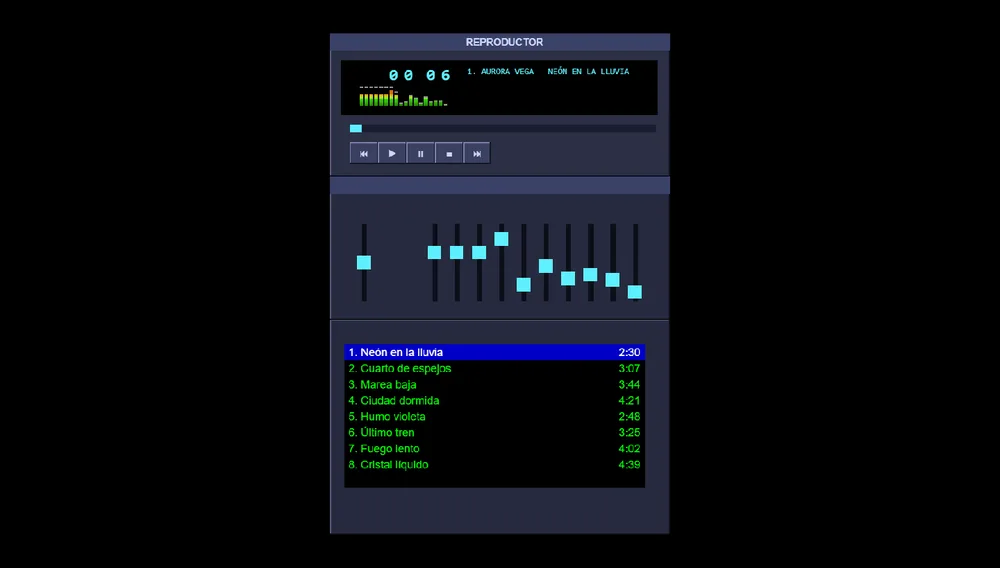
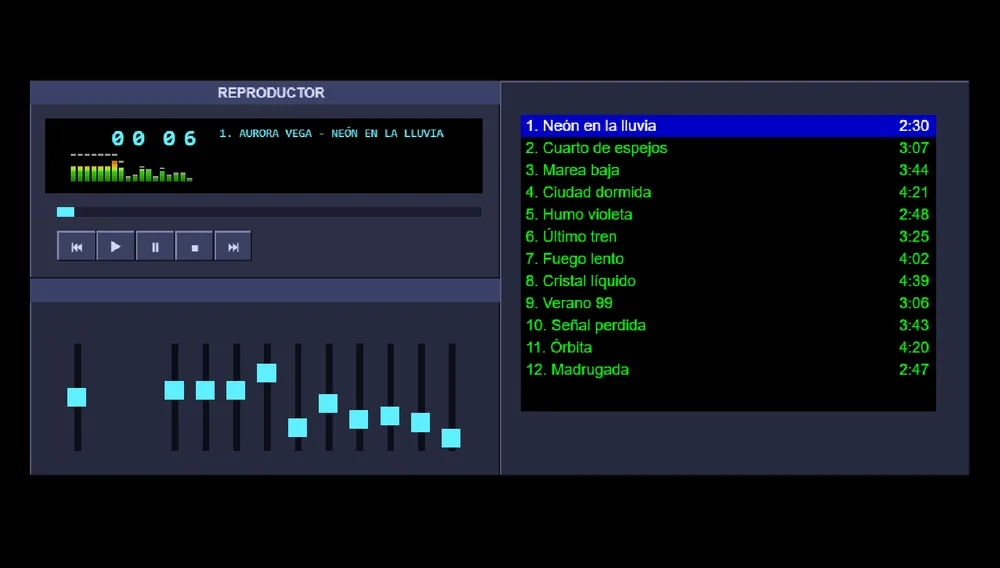
Winamp: principal y ecualizador a la izquierda, lista a la derecha, casi a todo el ancho

diff --git a/web/winamp.js b/web/winamp.js
@@ -1,11 +1,11 @@
 // Reproductor con skins clásicos de Winamp 2 (.wsz importados por la persona; quedan solo en su equipo).
-// Dibuja, en un solo lienzo pixelado, las tres ventanas apiladas como en Winamp: principal, ecualizador y lista,
+// Dibuja, en un solo lienzo pixelado, las tres ventanas de Winamp: principal y ecualizador apilados, y la lista al lado,
 // con las coordenadas originales de cada pieza del skin. Lo conecta al reproductor (R) y pone el color del skin
 // como acento de la plantilla. Si no hay skins importados, dibuja uno clásico propio hecho con formas simples.
 //   Winamp.montar(caja, { ambiente }) — la pieza "winamp" de las plantillas
 "use strict";
 const Winamp = (() => {
-  const AN = 275, MAIN = 116, EQ = 116, PL = 174, ALTO = MAIN + EQ + PL, S = 2;   // S: el lienzo va al doble para que el texto se lea nítido
+  const AN = 275, MAIN = 116, EQ = 116, PL = MAIN + EQ, ANCHO = AN * 2, ALTO = MAIN + EQ, S = 2;   // principal + ecualizador a la izquierda, lista a la derecha; S: el lienzo va al doble para que el texto se lea nítido
   const VIS_WINAMP = [[0,0,0],[24,33,41],[239,49,16],[206,41,16],[214,90,0],[214,102,0],[214,115,0],[198,123,8],[222,165,24],[214,181,33],[189,222,41],[148,222,33],[41,206,16],[50,190,16],[57,181,16],[49,156,8],[41,148,0],[24,132,8],[255,255,255],[214,214,222],[181,189,189],[160,170,175],[148,156,165],[150,150,150]];
   const FUENTE = { '"': [0, 26], "@": [0, 27], " ": [0, 30], "…": [1, 10], ".": [1, 11], ":": [1, 12], "(": [1, 13], ")": [1, 14], "-": [1, 15], "'": [1, 16], "!": [1, 17], "_": [1, 18], "+": [1, 19], "\\": [1, 20], "/": [1, 21], "[": [1, 22], "]": [1, 23], "^": [1, 24], "&": [1, 25], "%": [1, 26], ",": [1, 27], "=": [1, 28], "$": [1, 29], "#": [1, 30], "Å": [2, 0], "Ö": [2, 1], "Ä": [2, 2], "?": [2, 3], "*": [2, 4], "<": [1, 13], ">": [1, 14], "{": [1, 22], "}": [1, 23] };
   const letra = (c) => { const u = c.toUpperCase().normalize("NFD").replace(/[̀-ͯ]/g, ""); if (u >= "A" && u <= "Z") return [0, u.charCodeAt(0) - 65]; if (u >= "0" && u <= "9") return [1, +u]; return FUENTE[c] || FUENTE[u] || [0, 30]; };
@@ -15,14 +15,14 @@ const Winamp = (() => {
 
   function montar(caja, op) {
     const raiz = document.createElement("div"); raiz.className = "m-winamp";
-    raiz.style.cssText = `position:absolute;left:50%;top:50%;width:${AN}px;height:${ALTO}px;transform-origin:50% 50%`;
-    const c = document.createElement("canvas"); c.width = AN * S; c.height = ALTO * S;
-    c.style.cssText = `width:${AN}px;height:${ALTO}px;image-rendering:pixelated;display:block;cursor:default;filter:drop-shadow(0 12px 30px rgba(0,0,0,.6))`;
+    raiz.style.cssText = `position:absolute;left:50%;top:50%;width:${ANCHO}px;height:${ALTO}px;transform-origin:50% 50%`;
+    const c = document.createElement("canvas"); c.width = ANCHO * S; c.height = ALTO * S;
+    c.style.cssText = `width:${ANCHO}px;height:${ALTO}px;image-rendering:pixelated;display:block;cursor:default;filter:drop-shadow(0 12px 30px rgba(0,0,0,.6))`;
     // piezas invisibles que el reproductor (nucleo.js) actualiza por id: de aquí se leen título y estado
     const oculto = document.createElement("div"); oculto.style.display = "none";
     oculto.innerHTML = '<button id="bPlay">▶</button><div id="titulo"></div><div id="artista"></div><input id="volumen" type="range" min="0" max="100" value="80">';
     raiz.append(c, oculto); caja.appendChild(raiz);
-    const ajustar = () => { const s = Math.min(caja.clientWidth / AN, caja.clientHeight / ALTO) || .01; raiz.style.transform = `translate(-50%, -50%) scale(${s})`; };
+    const ajustar = () => { const s = Math.min(caja.clientWidth / ANCHO, caja.clientHeight / ALTO) || .01; raiz.style.transform = `translate(-50%, -50%) scale(${s})`; };
     new ResizeObserver(ajustar).observe(caja); requestAnimationFrame(ajustar);
     const g = c.getContext("2d"); g.scale(S, S); g.imageSmoothingEnabled = false;
     const vol = oculto.querySelector("#volumen"), bPlay = oculto.querySelector("#bPlay"), tit = oculto.querySelector("#titulo"), art = oculto.querySelector("#artista");
@@ -121,7 +121,7 @@ const Winamp = (() => {
     }
 
     function ventanaLista() {
-      g.save(); g.translate(0, MAIN + EQ);
+      g.save(); g.translate(AN, 0);
       const top = 20, abajo = PL - 38, ok = listo("pledit");
       g.fillStyle = pl.normalbg || "#000"; g.fillRect(12, top, AN - 32, abajo - top);
       if (ok) {
@@ -150,25 +150,25 @@ const Winamp = (() => {
       g.restore(); g.restore();
     }
 
-    R.cadaCuadro((t) => { const d = R.espectro(); g.clearRect(0, 0, AN, ALTO); ventanaPrincipal(t, d); ventanaEcualizador(d); ventanaLista(); });
+    R.cadaCuadro((t) => { const d = R.espectro(); g.clearRect(0, 0, ANCHO, ALTO); ventanaPrincipal(t, d); ventanaEcualizador(d); ventanaLista(); });
 
     // ---- ratón: botones, barras y lista ----
-    const punto = (e) => { const r = c.getBoundingClientRect(); return [(e.clientX - r.left) / r.width * AN, (e.clientY - r.top) / r.height * ALTO]; };
+    const punto = (e) => { const r = c.getBoundingClientRect(); return [(e.clientX - r.left) / r.width * ANCHO, (e.clientY - r.top) / r.height * ALTO]; };
     const boton = (x, y) => y >= 88 && y < 106 ? (x >= 16 && x < 39 ? "ant" : x < 62 ? "play" : x < 85 ? "pausa" : x < 108 ? "stop" : x < 130 ? "sig" : "") : "";
     const ponerVol = (x) => { vol.value = Math.round(Math.max(0, Math.min(1, (x - 114) / 54)) * 100); vol.dispatchEvent(new Event("input")); };
     c.addEventListener("pointerdown", (e) => {
       const [x, y] = punto(e); c.setPointerCapture(e.pointerId);
-      if (y < MAIN) {
+      if (x < AN && y < MAIN) {
         apretado = boton(x, y);
         if (y >= 72 && y < 82 && x >= 16 && x < 264) { arrastre = "pos"; R.saltarA(Math.max(0, Math.min(1, (x - 30) / 219))); }
         else if (y >= 57 && y < 70 && x >= 107 && x < 175) { arrastre = "vol"; ponerVol(x); }
-      } else if (y >= MAIN + EQ + 20 && y < MAIN + EQ + PL - 38 && x >= 12 && x < AN - 20) {
-        const k = scroll + Math.floor((y - MAIN - EQ - 20) / 13); if (k < R.pistas.length) R.cargar(k);
+      } else if (x >= AN + 12 && x < ANCHO - 20 && y >= 20 && y < PL - 38) {
+        const k = scroll + Math.floor((y - 20) / 13); if (k < R.pistas.length) R.cargar(k);
       }
     });
     c.addEventListener("pointermove", (e) => { const [x] = punto(e); if (arrastre === "vol") ponerVol(x); else if (arrastre === "pos") R.saltarA(Math.max(0, Math.min(1, (x - 30) / 219))); });
     c.addEventListener("pointerup", (e) => {
-      const [x, y] = punto(e), b = boton(x, y);
+      const [x, y] = punto(e), b = x < AN ? boton(x, y) : "";
       if (b && b === apretado) {
         const n = R.pistas.length;
         if (b === "play") { if (!sonando()) R.alternar(); else R.saltarA(0); }
@@ -178,7 +178,7 @@ const Winamp = (() => {
       }
       apretado = ""; arrastre = "";
     });
-    c.addEventListener("wheel", (e) => { const [, y] = punto(e); if (y > MAIN + EQ) { e.preventDefault(); scroll = Math.max(0, Math.min(Math.max(0, R.pistas.length - 8), scroll + Math.sign(e.deltaY) * 2)); } }, { passive: false });
+    c.addEventListener("wheel", (e) => { const [x] = punto(e); if (x > AN) { e.preventDefault(); scroll = Math.max(0, Math.min(Math.max(0, R.pistas.length - 12), scroll + Math.sign(e.deltaY) * 2)); } }, { passive: false });
 
     if (window.pywebview && pywebview.api) usar(""); else addEventListener("pywebviewready", () => usar(""));
     return { usar };

diff --git a/web/esquema.js b/web/esquema.js
@@ -72,7 +72,7 @@ const ESQUEMA = {
       "efecto": { "t": "enum", "n": "Tipo", "v": { "lineas": "Líneas de velocidad", "anillos": "Anillos", "destellos": "Destellos" }, "def": "lineas" },
       "sensibilidad": { "t": "num", "n": "Sensibilidad", "min": 20, "max": 200, "def": 100, "u": " %" },
       "color": { "t": "color", "n": "Color", "def": "", "vacio": true } } },
-    "winamp": { "etiqueta": "Reproductor Winamp (tus skins)", "rect": [33, 2, 34, 96], "ids": ["titulo", "artista", "bAnt", "bPlay", "bSig", "barra", "tiempo", "volumen", "lista"], "aspecto": 0.677, "opciones": {
+    "winamp": { "etiqueta": "Reproductor Winamp (tus skins)", "rect": [3, 13, 94, 72], "ids": ["titulo", "artista", "bAnt", "bPlay", "bSig", "barra", "tiempo", "volumen", "lista"], "aspecto": 2.371, "opciones": {
       "ambiente": { "t": "bool", "n": "Fondo con el arte del skin", "def": true } } },
     "cabeza": { "etiqueta": "Cabeza Y2K (con pantalla)", "rect": [28, 3, 44, 92], "ids": ["caratula", "titulo", "artista", "bAnt", "bPlay", "bSig", "barra", "tiempo"], "aspecto": 0.789, "opciones": {
       "cuerpo": { "t": "enum", "n": "Cuerpo", "v": { "Y2K": "Y2K translúcido", "Gel": "Gel brillante", "Propio": "El que subiste en Headspace" }, "def": "Y2K" },

diff --git a/web/plantillas-propias.js b/web/plantillas-propias.js
@@ -67,7 +67,7 @@ const Propias = (() => {
   // Anime PS2: un reproductor de Winamp con los skins que importa la persona (quedan solo en su equipo)
   INCLUIDAS.anime = { nombre: "Anime PS2", reglas: { requeridas: ["winamp"], nota: "El reproductor de Winamp lo es todo: trae pantalla, botones, barra, ecualizador y lista. Los skins se importan en la Biblioteca (link de skins.webamp.org o archivo .wsz)." },
       fondo: { tipo: "visu2000", color: "#000000", brillo: 55 }, estilo: { panel: "liso", acento: "#5ef0ff", fuente: "Geist" },
-      piezas: () => armar([["winamp", [33, 2, 34, 96], { ambiente: true }]]) };
+      piezas: () => armar([["winamp", [3, 13, 94, 72], { ambiente: true }]]) };
   function desdeBase(id) {
     const b = INCLUIDAS[id]; if (!b) return null;
     const spec = { id: nuevoId(), nombre: `${b.nombre} (mi versión)`, base: id, fondo: JSON.parse(JSON.stringify(b.fondo)), estilo: JSON.parse(JSON.stringify(b.estilo)), piezas: b.piezas() };
